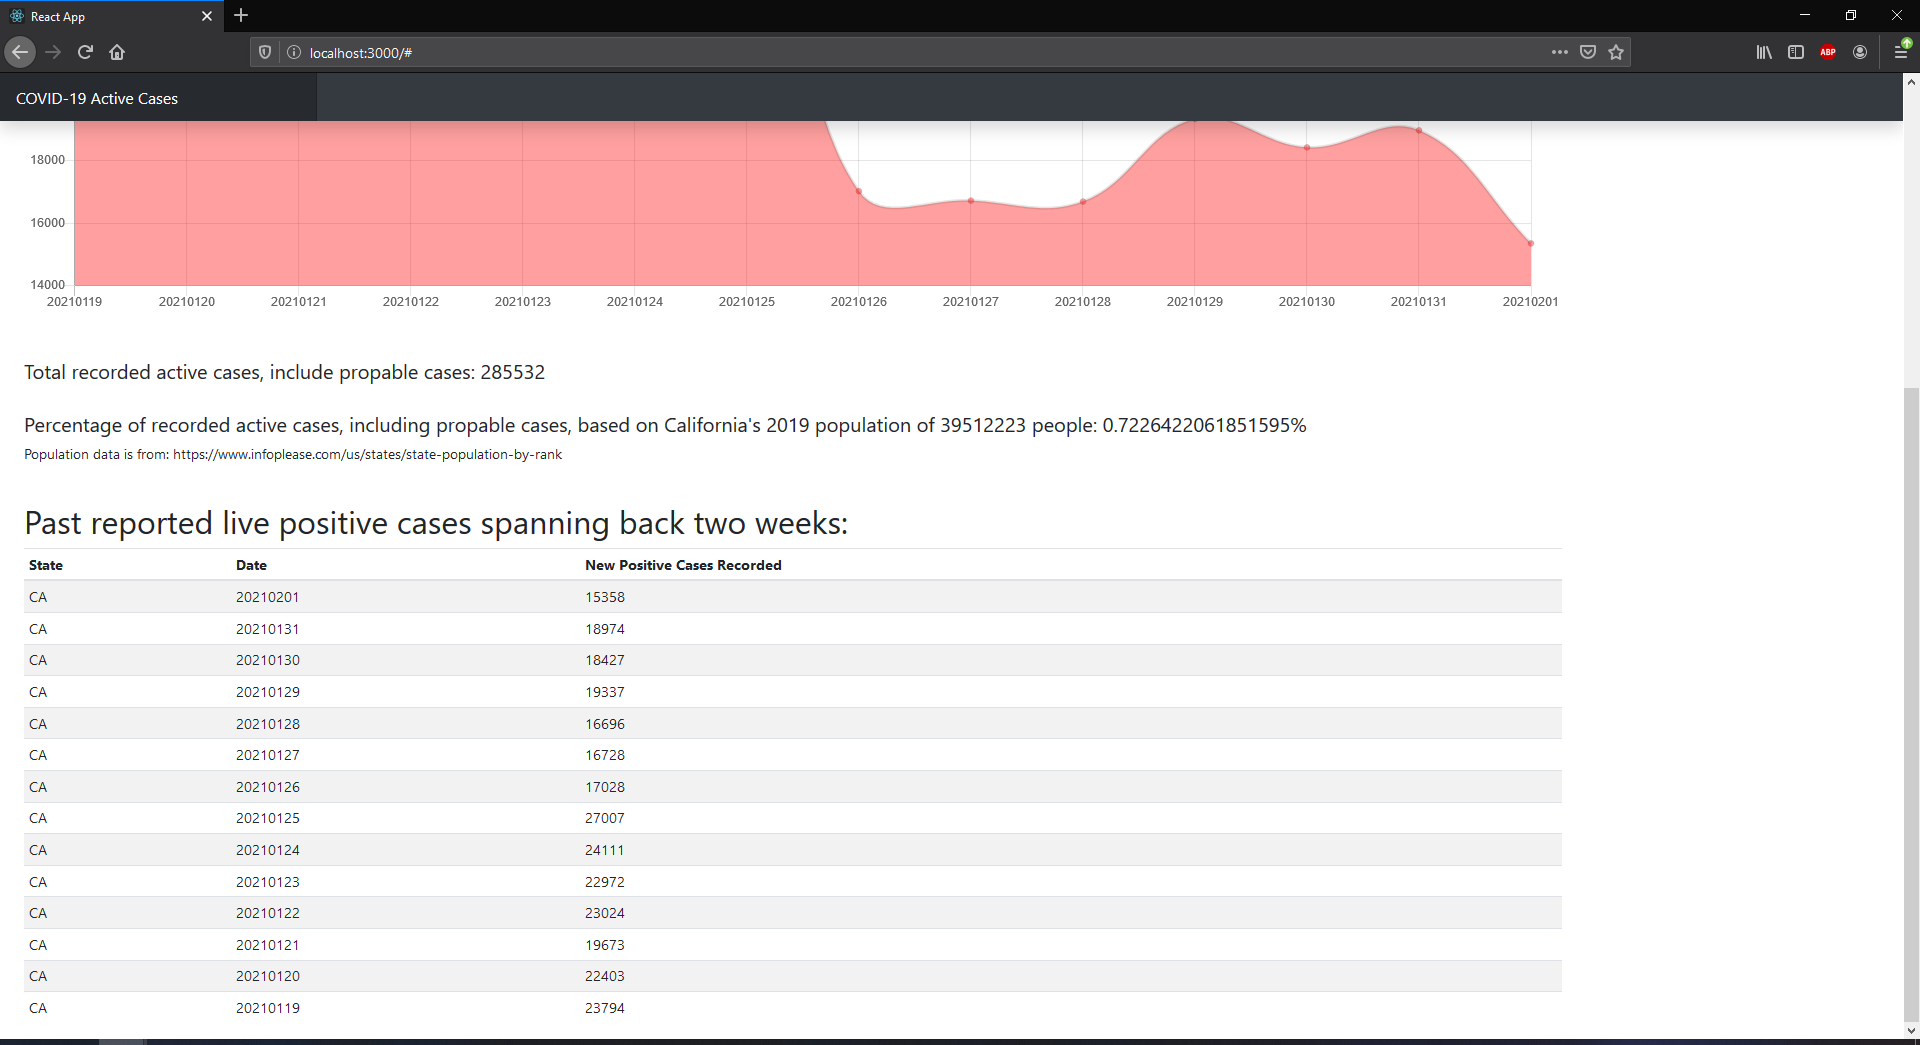
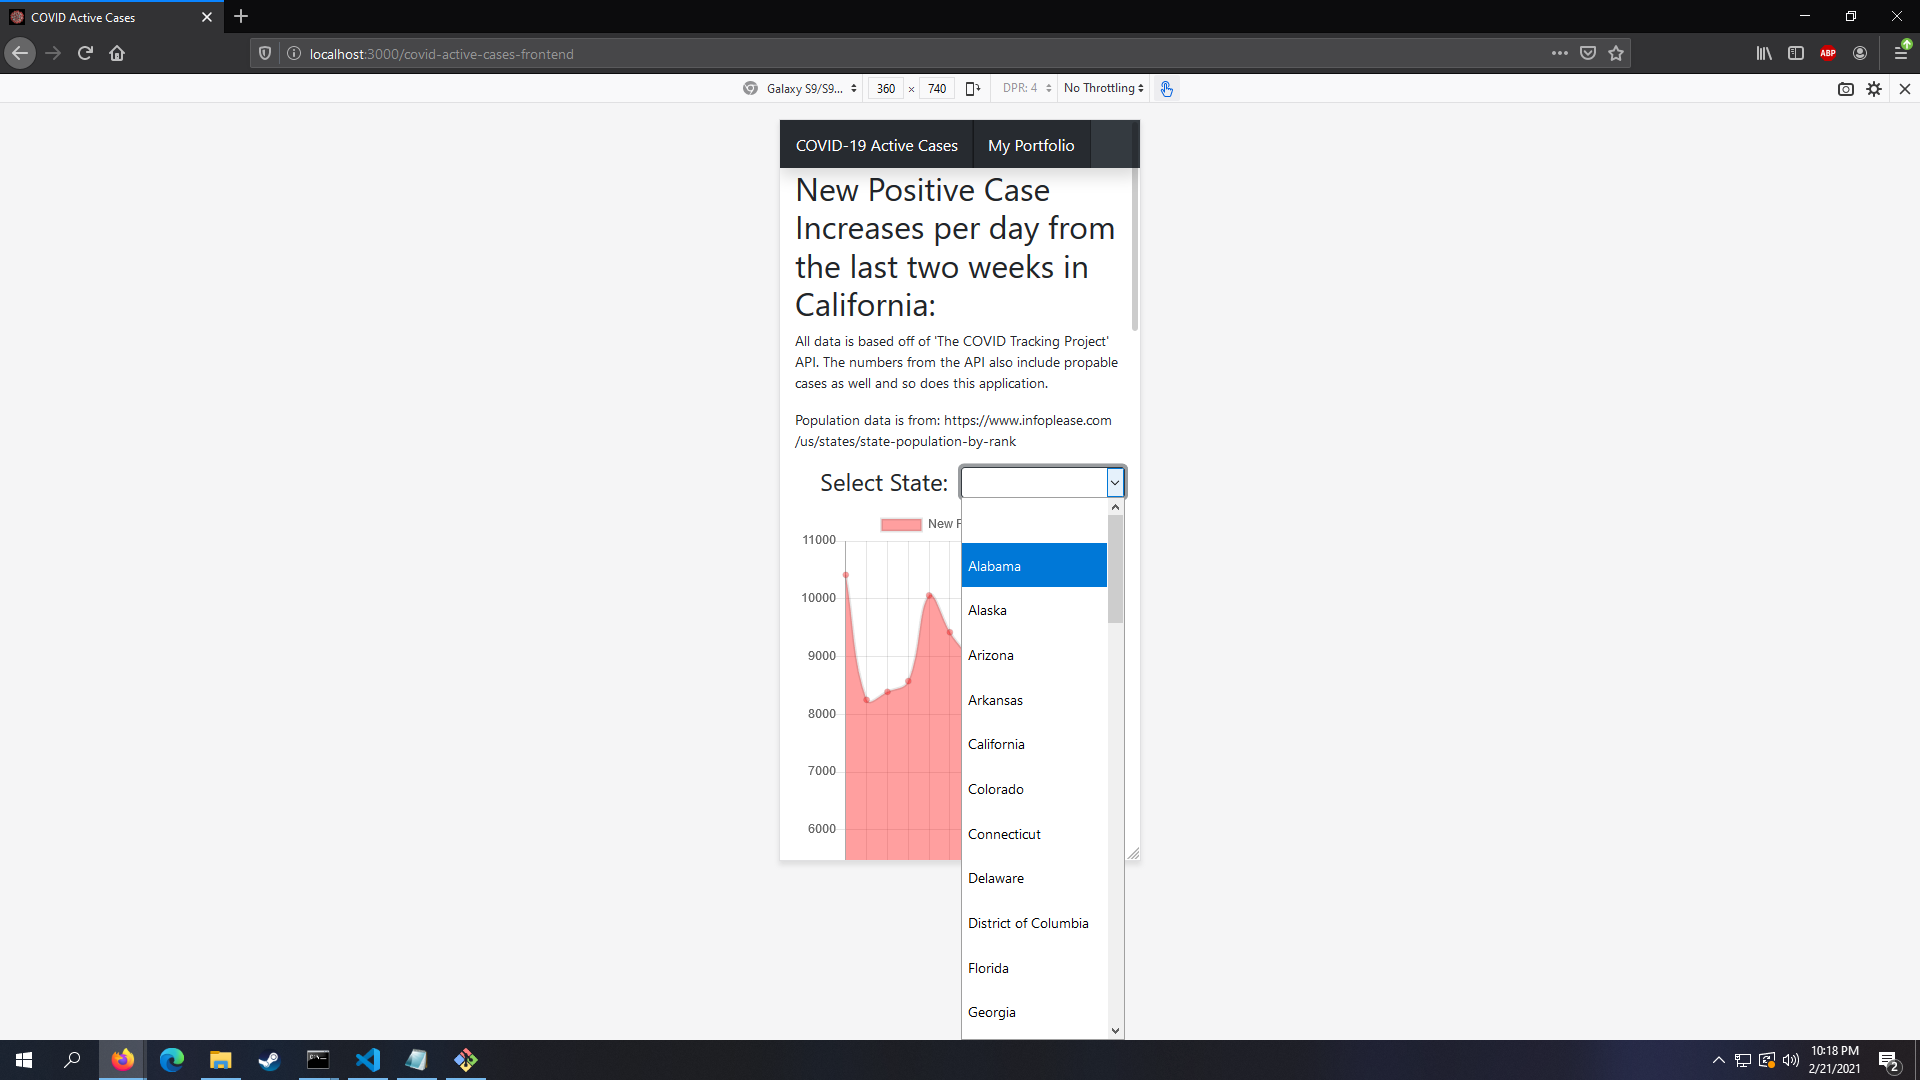
Added new screenshots | Edited readme

diff --git a/README.md b/README.md
@@ -19,10 +19,8 @@ Libraries/Frameworks: React, Chart-js-2
 ![Screnshot 4 of application](https://github.com/brandonwsa/covid-active-cases-frontend/blob/main/screenshots/ss_4.PNG)
 ![Screnshot 5 of application](https://github.com/brandonwsa/covid-active-cases-frontend/blob/main/screenshots/ss_5.PNG)
 ![Screnshot 6 of application](https://github.com/brandonwsa/covid-active-cases-frontend/blob/main/screenshots/ss_6.PNG)
+![Screnshot 7 of application](https://github.com/brandonwsa/covid-active-cases-frontend/blob/main/screenshots/ss_7.PNG)
 
-## TO DO:
-[] Refactor code
-[] OPtimize for mobile viewing
 
 
 # -------------------------------------
